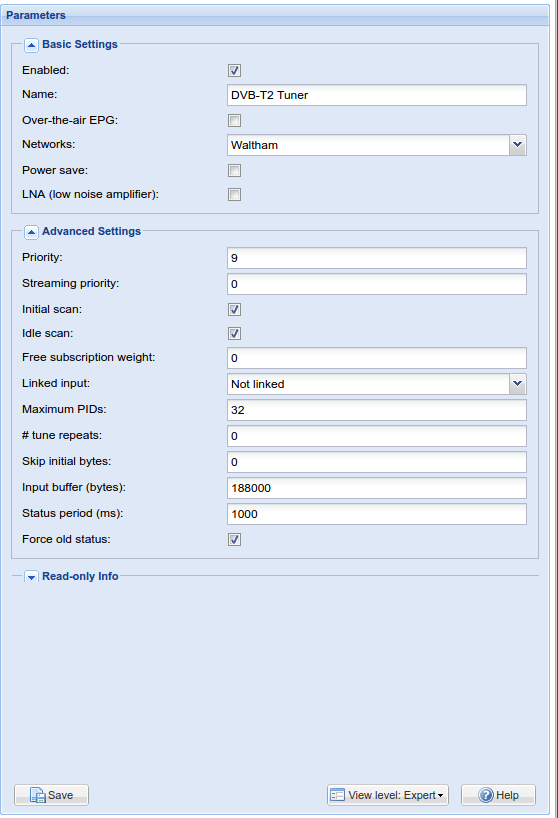
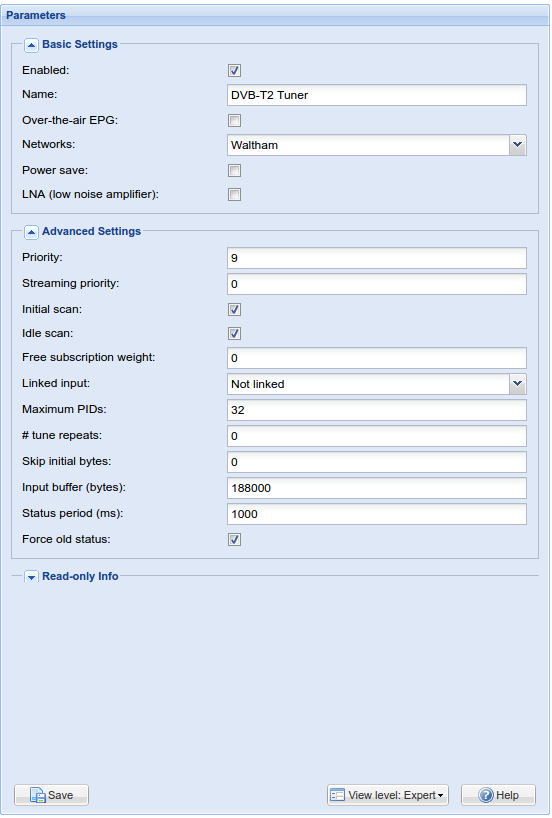
mdhelp: Clean up tv_adapters a little, add satip info.
Remove unnecessary links to other types (frontends, satconf)
from many of the device/satconf docs.

Give dvbtfrontendparams.png a trim.

diff --git a/docs/markdown/tv_adapters.md b/docs/markdown/tv_adapters.md
@@ -21,7 +21,7 @@ Button         | Function
 
 The device tree lists the available frontends, LNB configuration and 
 so on related to your device(s) in sections. Clicking on these sections 
-will display all available parameters and various device information.
+will display available parameters and device information.
 
 !['TV Adapter params'](static/img/doc/tvadapterparams.png)
 
@@ -29,20 +29,11 @@ will display all available parameters and various device information.
 
 ---
 
-##Device Configuration Options
+###Device Configuration
 
-You will generally see the following parameters for your device(s), however 
-there are device-specific parameters too, see 
-[Device-specific Parameters](#device-specific-parameters) for a full 
-list.
+Click on an item to display more information.
 
-<tvh_class_items>linuxdvb_frontend</tvh_class_items>
-
----
-
-##Device-specific Parameters
-
-###Satellite (DVB-S/ISDB-S)
+####Satellite (DVB-S/ISDB-S)
 
 * Frontend
   - [Master](class/linuxdvb_frontend_dvbs)
@@ -60,20 +51,31 @@ list.
   - [Rotor (GOTOX)](class/linuxdvb_rotor_gotox)
   - [Rotor (USALS)](class/linuxdvb_rotor_usals)
   
----
-
-###Terrestrial (DVB-T/ATSC-T/ISDB-T)
+####Terrestrial (DVB-T/ATSC-T/ISDB-T)
 
 * Frontend
   - [DVB-T/DVB-T2](class/linuxdvb_frontend_dvbt)
   - [ATSC-T](class/linuxdvb_frontend_atsc_t)
   - [ISDB-T](class/linuxdvb_frontend_isdb_t)
-  
----
 
-###Cable (DVB-C/ATSC-C/ISDB-C)
+####Cable (DVB-C/ATSC-C/ISDB-C)
 
 * Frontend
   - [DVB-C](class/linuxdvb_frontend_dvbc)
   - [ATSC-C](class/linuxdvb_frontend_atsc_c)
   - [ISDB-C](class/linuxdvb_frontend_isdb_c)
+
+####SAT>IP (DVB-T/ATSC-T/ATSC-C/DVB-S)
+
+* [Client](class/satip_client)
+   
+* Frontend
+   - [ATSC-T](class/satip_frontend_atsc_t)
+   - [ATSC-C](class/satip_frontend_atsc_c)
+   - [DVB-T](class/satip_frontend_dvbt)
+   - [DVB-S (Master)](class/satip_frontend_dvbs)
+   - [DVB-S (Slave)](class/satip_frontend_dvbs_slave)
+   
+* [Satellite Configuration](class/satip_satconf)
+
+---

diff --git a/docs/class/linuxdvb_satconf.md b/docs/class/linuxdvb_satconf.md
@@ -1,8 +1,6 @@
 This panel tab lists all the available satellite (DVB-S/ISDB-S) configuration 
 parameters.
 
-!['Example Configuration'](static/img/doc/dvbsatconf.png)
-
 ---
 
 ###Buttons
@@ -14,19 +12,4 @@ Button         | Function
 **Save**       | Save the current configuration.
 <tvh_include>inc/common_button_table_end</tvh_include>
 
----
-
-* Satellite Configuration
-  - [Universal LNB](class/linuxdvb_satconf_lnbonly)
-  - [2 Port](class/linuxdvb_satconf_2port)
-  - [4 Port](class/linuxdvb_satconf_4port)
-* Satellite Configuration (Advanced)
-  - [Advanced LNB](class/linuxdvb_satconf_advanced)
-  - [Unicable EN50494 (experimental)](class/linuxdvb_satconf_en50494)
-  - [DiseqC Rotor](class/linuxdvb_rotor)
-  - [DiSEqC Switch](class/linuxdvb_switch)
-  - [Rotor (GOTOX)](class/linuxdvb_rotor_gotox)
-  - [Rotor (USALS)](class/linuxdvb_rotor_usals)
-* Back to [TV Adapters](tv_adapters) 
-  
 ---

diff --git a/docs/class/linuxdvb_frontend_dvbs.md b/docs/class/linuxdvb_frontend_dvbs.md
@@ -5,14 +5,6 @@ parameters.
 
 ---
 
-* Other Frontends
-  - [Master](class/linuxdvb_frontend_dvbs)
-  - [Master (ISDB-S)](class/linuxdvb_frontend_isdb_s)
-  - [Slave](class/linuxdvb_frontend_dvbs_slave)
-* Back to [TV Adapters](tv_adapters) 
-
----
-
 ###Buttons
 
 The following buttons are available:

diff --git a/docs/class/linuxdvb_frontend_dvbt.md b/docs/class/linuxdvb_frontend_dvbt.md
@@ -5,14 +5,6 @@ parameters.
 
 ---
 
-* Other Frontends
-  - [DVB-T/DVB-T2](class/linuxdvb_frontend_dvbt)
-  - [ATSC-T](class/linuxdvb_frontend_atsc_t)
-  - [ISDB-T](class/linuxdvb_frontend_isdb_t)
-* Back to [TV Adapters](tv_adapters) 
-
----
-
 ###Buttons
 
 The following buttons are available:

diff --git a/docs/class/linuxdvb_frontend_dvbc.md b/docs/class/linuxdvb_frontend_dvbc.md
@@ -5,14 +5,6 @@ parameters.
 
 ---
 
-* Other Frontends
-  - [DVB-C](class/linuxdvb_frontend_dvbc)
-  - [ATSC-C](class/linuxdvb_frontend_atsc_c)
-  - [ISDB-C](class/linuxdvb_frontend_isdb_c)
-* Back to [TV Adapters](tv_adapters) 
-
----
-
 ###Buttons
 
 The following buttons are available:
